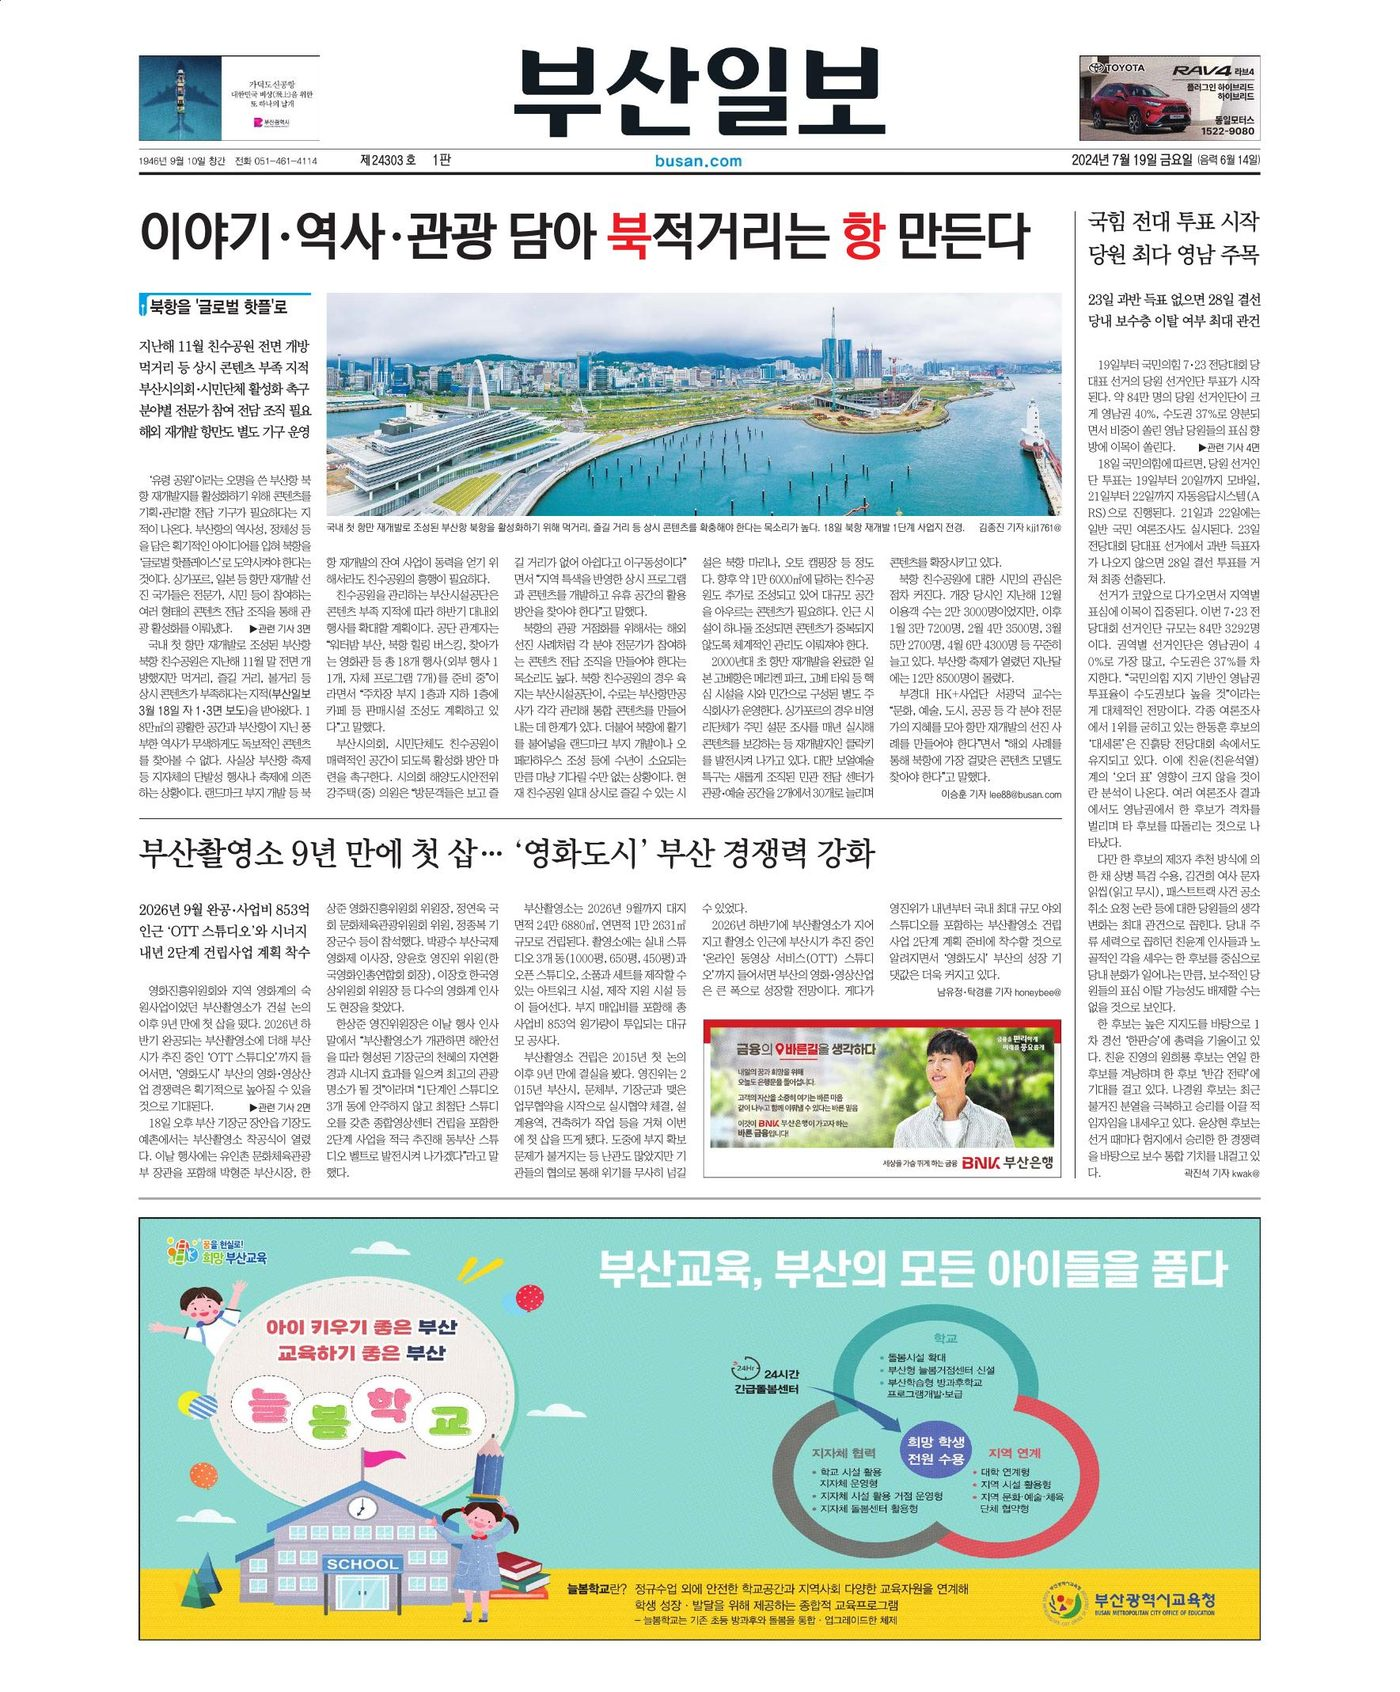
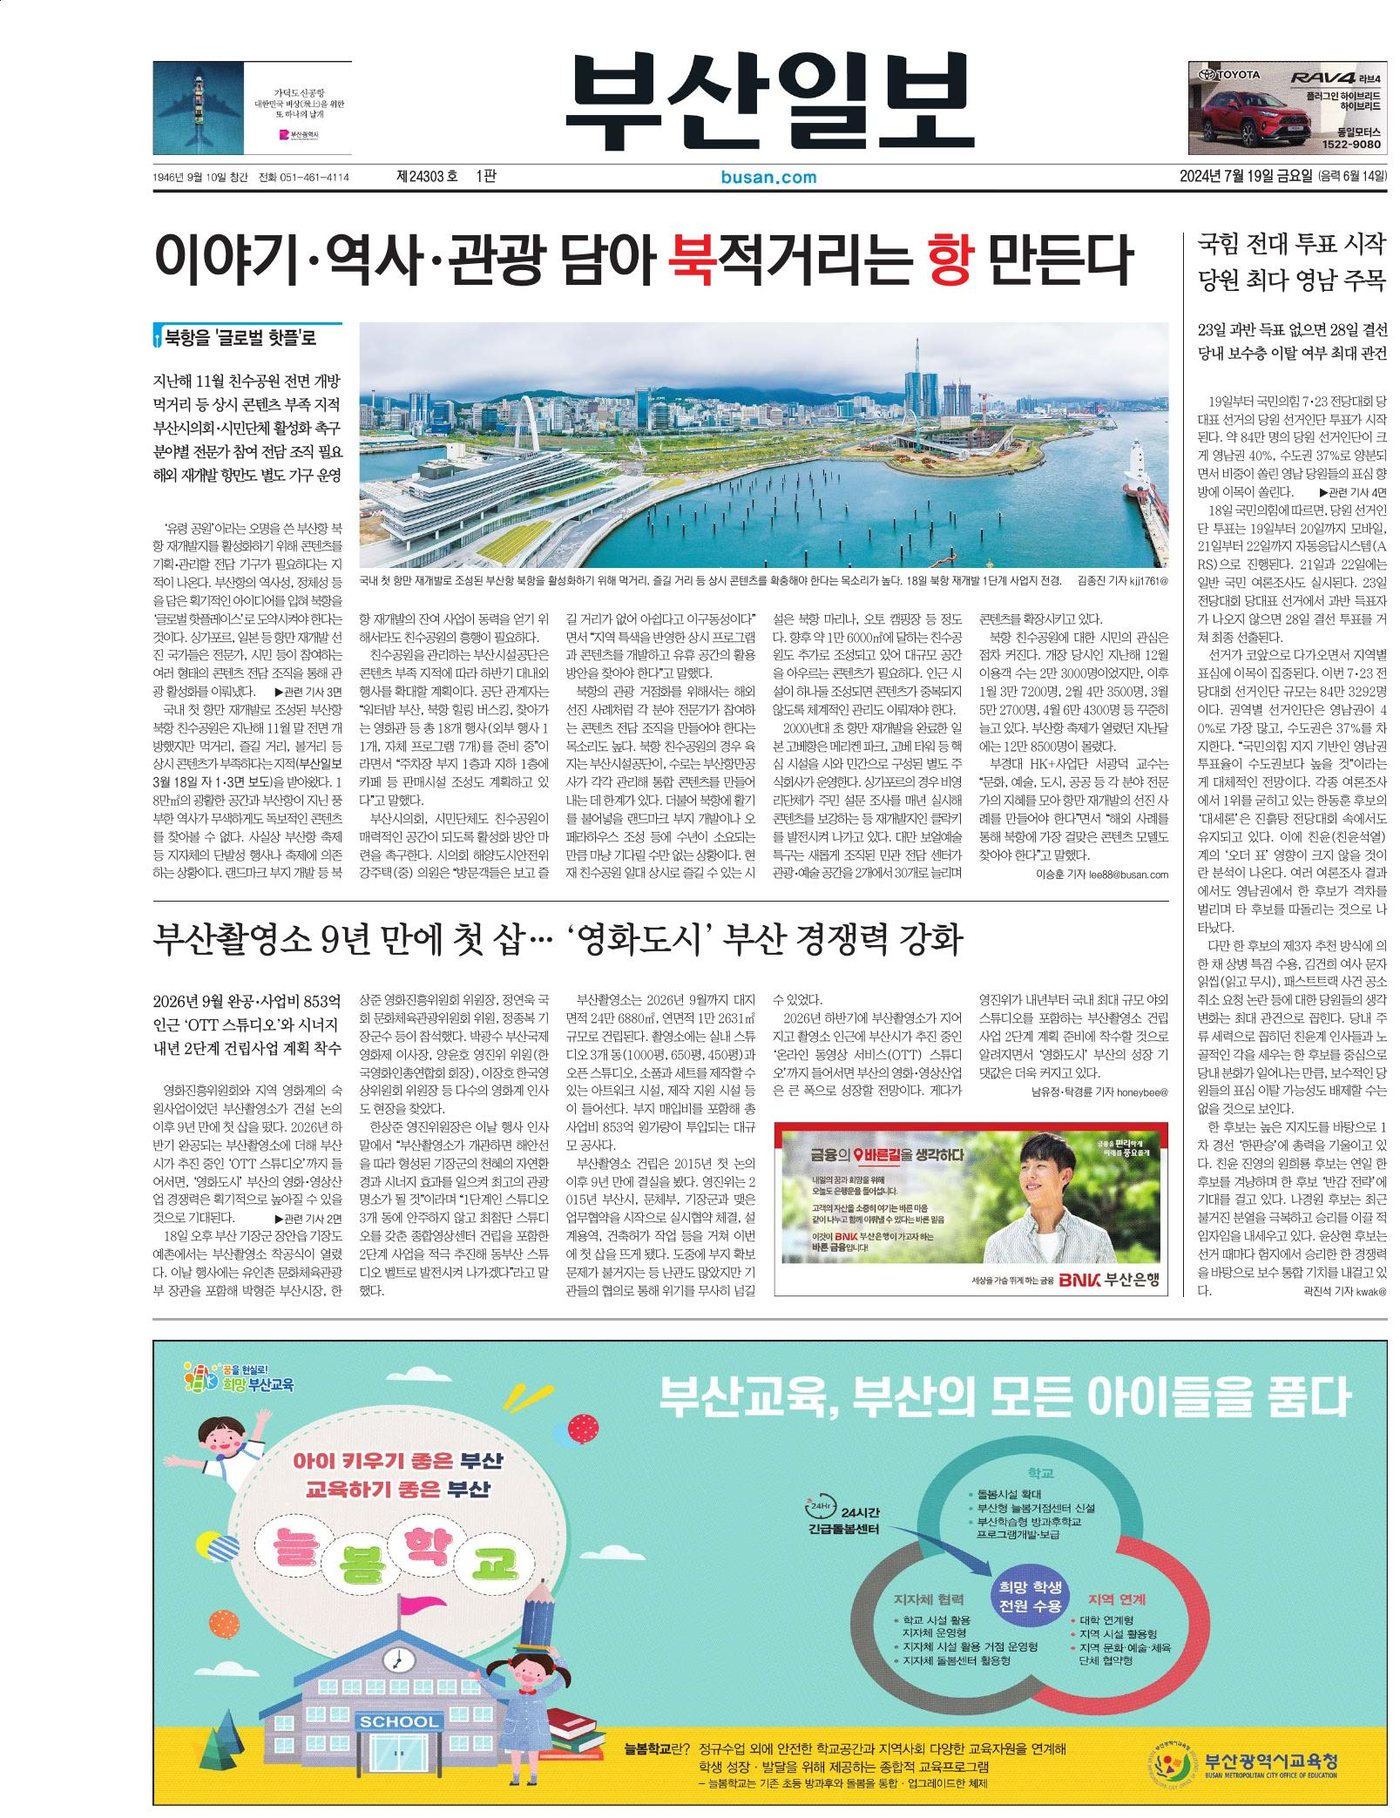
지면 이미지 여백 정리

diff --git a/reports/edu-election/index.html b/reports/edu-election/index.html
@@ -406,8 +406,8 @@
     <h2>지면</h2>
     <div class="sec-body">
       <div class="prints">
-        <a href="/images/plans/edu-election-1.jpg"><img src="/images/plans/edu-election-1.jpg" alt="4·2 부산시교육감 재선거 지면 1" width="1400" height="1692" loading="lazy"></a>
-        <a href="/images/plans/edu-election-2.jpg"><img src="/images/plans/edu-election-2.jpg" alt="4·2 부산시교육감 재선거 지면 2" width="1400" height="1692" loading="lazy"></a>
+        <a href="/images/plans/edu-election-1.jpg"><img src="/images/plans/edu-election-1.jpg" alt="4·2 부산시교육감 재선거 지면 1" width="1400" height="1978" loading="lazy"></a>
+        <a href="/images/plans/edu-election-2.jpg"><img src="/images/plans/edu-election-2.jpg" alt="4·2 부산시교육감 재선거 지면 2" width="1400" height="1963" loading="lazy"></a>
       </div>
     </div>
   </section>

diff --git a/reports/bukhang/index.html b/reports/bukhang/index.html
@@ -181,8 +181,8 @@
     <h2>지면</h2>
     <div class="sec-body">
       <div class="prints">
-        <a href="/images/plans/bukhang-1.jpg"><img src="/images/plans/bukhang-1.jpg" alt="북항을 글로벌 핫플로 지면 1" width="1400" height="1692" loading="lazy"></a>
-        <a href="/images/plans/bukhang-2.jpg"><img src="/images/plans/bukhang-2.jpg" alt="북항을 글로벌 핫플로 지면 2" width="1400" height="1692" loading="lazy"></a>
+        <a href="/images/plans/bukhang-1.jpg"><img src="/images/plans/bukhang-1.jpg" alt="북항을 글로벌 핫플로 지면 1" width="1400" height="1818" loading="lazy"></a>
+        <a href="/images/plans/bukhang-2.jpg"><img src="/images/plans/bukhang-2.jpg" alt="북항을 글로벌 핫플로 지면 2" width="1400" height="1817" loading="lazy"></a>
       </div>
     </div>
   </section>

diff --git a/reports/busanpedia/index.html b/reports/busanpedia/index.html
@@ -307,7 +307,7 @@
     <h2>지면</h2>
     <div class="sec-body">
       <div class="prints one">
-        <a href="/images/plans/busanpedia-1.jpg"><img src="/images/plans/busanpedia-1.jpg" alt="부산피디아 지면 1" width="1400" height="1692" loading="lazy"></a>
+        <a href="/images/plans/busanpedia-1.jpg"><img src="/images/plans/busanpedia-1.jpg" alt="부산피디아 지면 1" width="1399" height="1814" loading="lazy"></a>
       </div>
     </div>
   </section>
